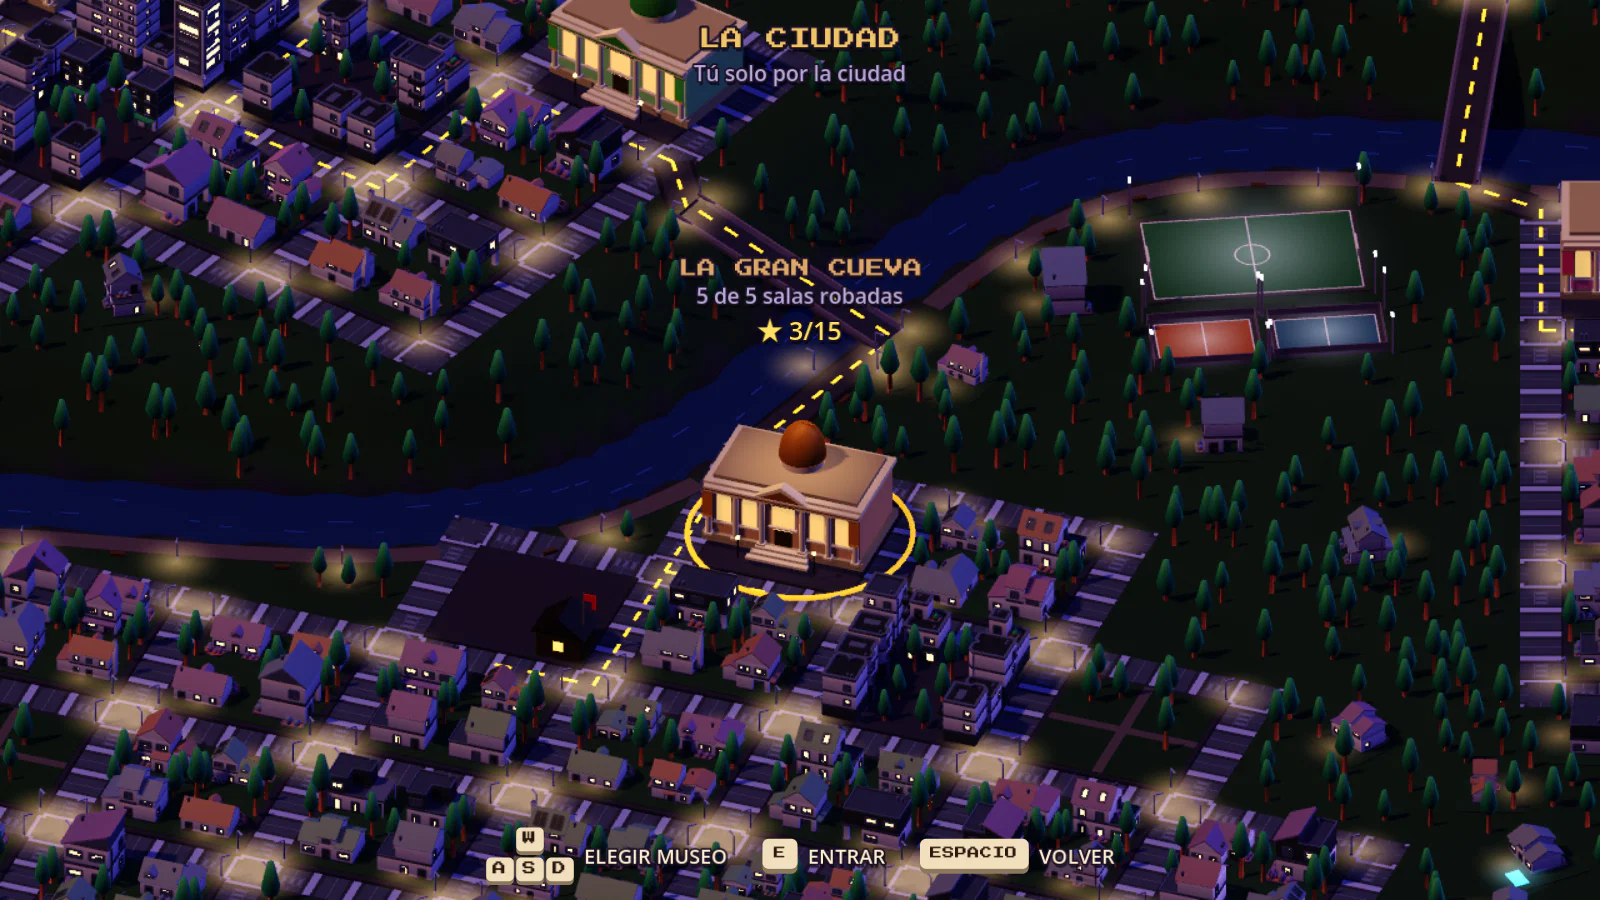
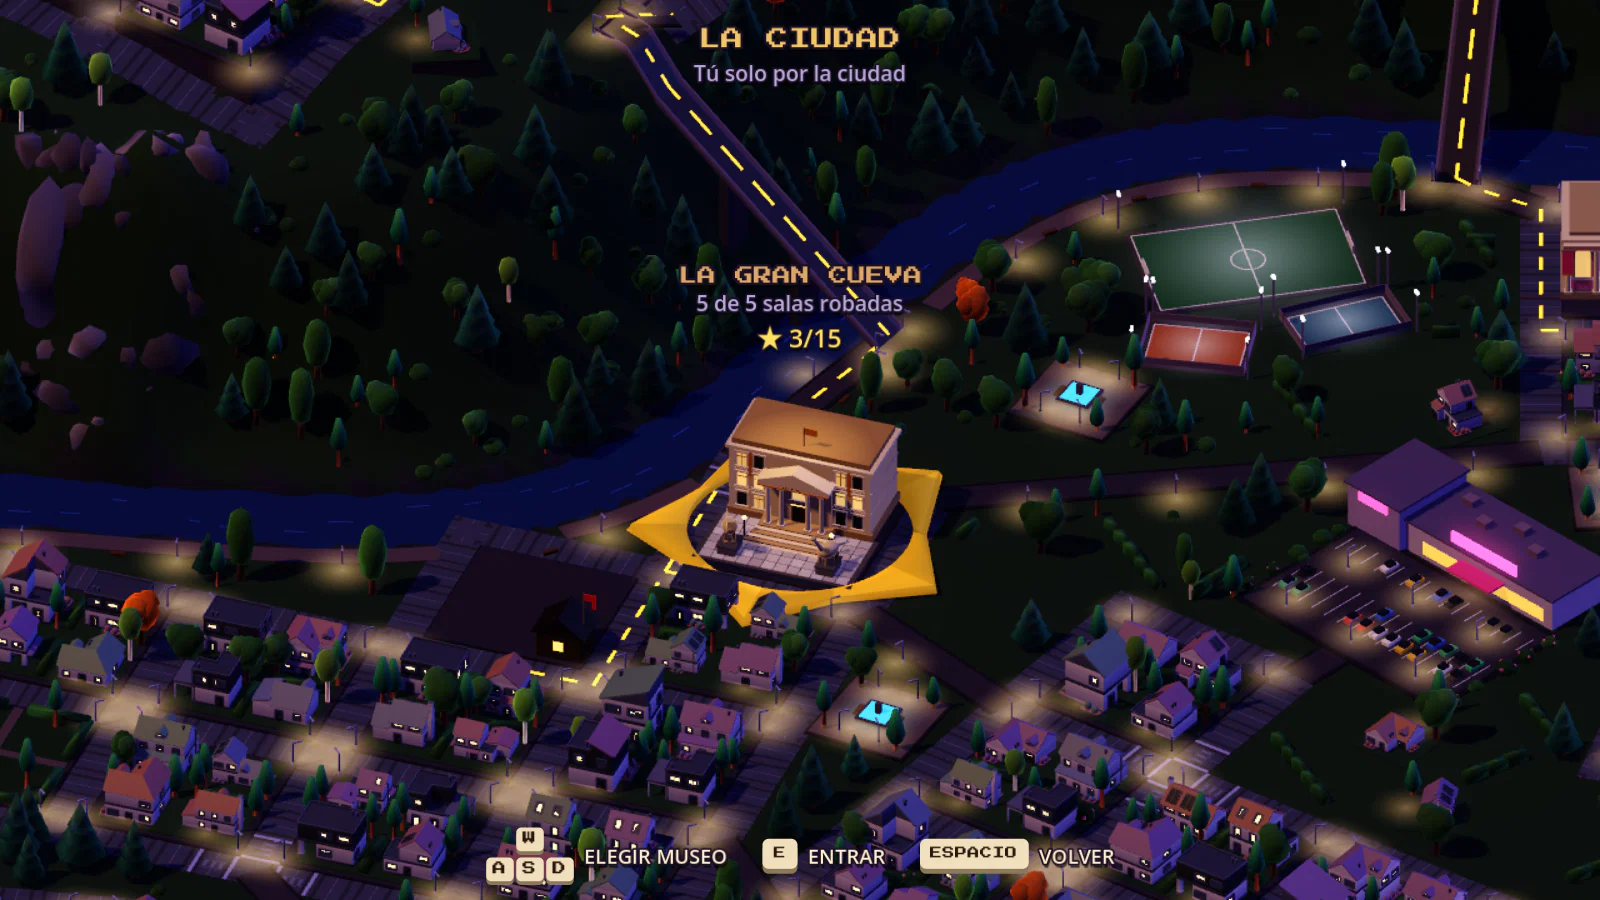
Documentación: la captura de la ciudad con la estrella ninja, y su hito

diff --git a/docs/data/versiones.js b/docs/data/versiones.js
@@ -455,6 +455,22 @@ window.VERSIONES = {
    "bytes": 108248
   },
   {
+   "asunto": "ciudad",
+   "fecha": "2026-09-28T19:13",
+   "commit": "df36288",
+   "titulo": "El museo elegido, dentro de una estrella ninja",
+   "porque": "El anillo dorado del museo elegido pasa a ser una estrella ninja que gira",
+   "cambio": "Una estrella ninja de cinco puntas, dorada y en dos tonos, rodea el museo elegido y gira despacio al revés que las agujas del reloj",
+   "file": "versiones/ciudad/2026-09-28-el-museo-elegido-dentro-de-una-estrella-.webp",
+   "from": "docs/capturas/menu_historia_ciudad.webp",
+   "commit_msg": "",
+   "size": [
+    1280,
+    720
+   ],
+   "bytes": 81976
+  },
+  {
    "asunto": "museo",
    "fecha": "2026-09-27T10:02",
    "commit": "3888cd5",
@@ -551,5 +567,5 @@ window.VERSIONES = {
    "bytes": 68042
   }
  ],
- "bytes": 2190300
+ "bytes": 2272276
 };
